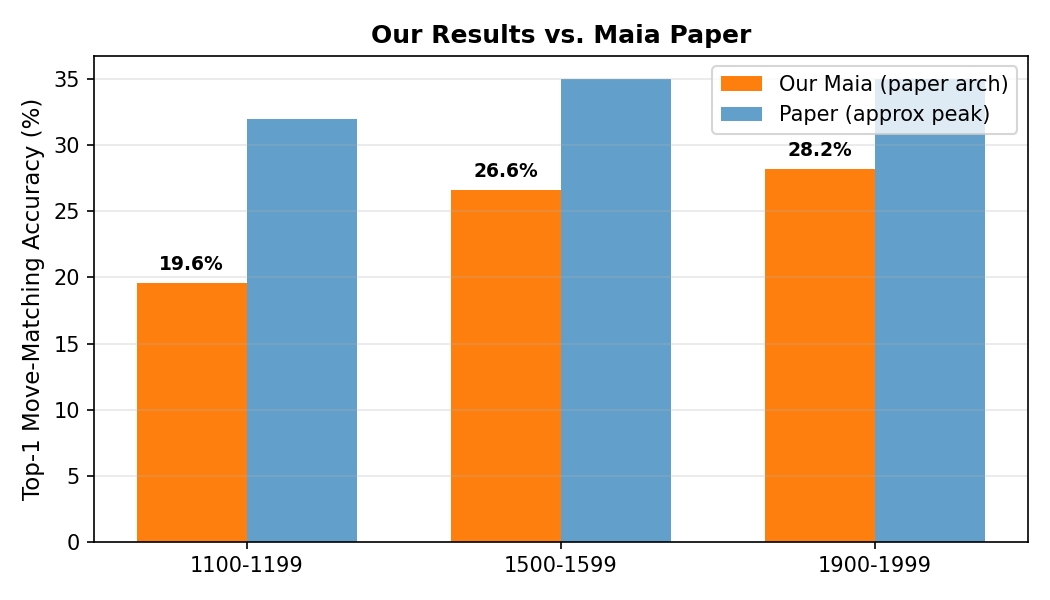
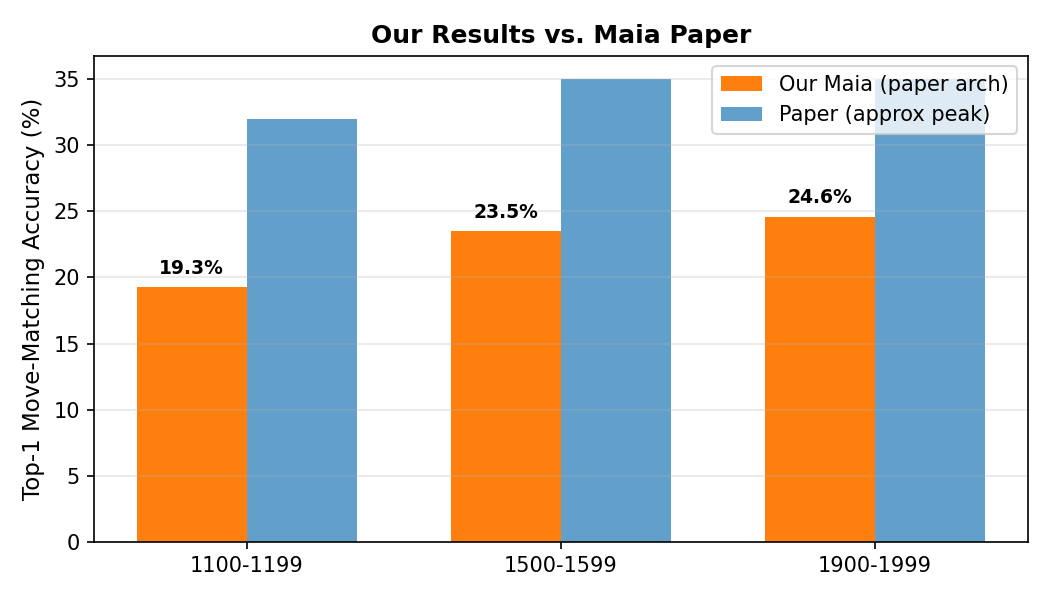
Fix eval bias: random-with-history sampling (1000 pos/bin). Honest docs: only Maia-1900 shows V-shape; note compute limitation for 1100/1500

Changed region(s): [[0.7314, 0.24, 0.8533, 0.36], [0.4267, 0.27, 0.5486, 0.39], [0.1219, 0.42, 0.2438, 0.48]]

diff --git a/maia-reproduction/scripts/eval_full2.py b/maia-reproduction/scripts/eval_full2.py
@@ -1,5 +1,5 @@
-"""Evaluate full-scale models using consecutive game positions (proper history)."""
-import json, sys, torch, chess
+"""Evaluate full-scale models using random game-positions with proper history."""
+import json, sys, torch, chess, random
 from pathlib import Path
 from collections import defaultdict
 sys.path.insert(0, str(Path(__file__).parent.parent))
@@ -12,45 +12,48 @@ BINS = [1100, 1500, 1900]
 HISTORY = 8
 IN_CH = 17 + 12 * HISTORY
 DEVICE = "cuda" if torch.cuda.is_available() else "cpu"
+NUM_POSITIONS = 1000
+_CACHE = {}
 
 
-def load_consecutive_games(bin_lower: int, max_positions=500):
-    """Load consecutive positions from the start of the JSON (same game context preserved)."""
+def get_bin_data(bin_lower: int):
+    """Load and cache game-grouped data for a bin."""
+    if bin_lower in _CACHE:
+        return _CACHE[bin_lower]
     trimmed = Path(f"data/parquet/records_{bin_lower}_trimmed.json")
     default = Path(f"data/parquet/records_{bin_lower}.json")
     path = trimmed if trimmed.exists() else default
     with open(path) as f:
         records = json.load(f)
-
-    # Group by game_id, sort by ply
     games = defaultdict(list)
-    for r in records[:5000]:  # scan first 5000 records to find games
+    for r in records:
         games[r["game_id"]].append(r)
     for gid in games:
         games[gid].sort(key=lambda x: x["ply"])
+    valid = {gid: g for gid, g in games.items() if len(g) > HISTORY}
+    _CACHE[bin_lower] = valid
+    return valid
 
-    # Build test items with history from consecutive game moves
+
+def load_random_positions(bin_lower: int, n: int = NUM_POSITIONS):
+    games = get_bin_data(bin_lower)
+    game_ids = list(games.keys())
+    random.seed(42 + bin_lower)
     items = []
-    for gid, game_moves in games.items():
-        for i, rec in enumerate(game_moves):
-            if len(items) >= max_positions:
-                break
-            start = max(0, i - HISTORY)
-            hist_fens = [game_moves[j]["fen"] for j in range(start, i)]
-            items.append({
-                "fen": rec["fen"],
-                "hist_fens": hist_fens,
-                "actual_uci": rec["move_uci"],
-                "ply": rec["ply"],
-            })
-        if len(items) >= max_positions:
-            break
-
-    return items[:max_positions]
+    while len(items) < n and game_ids:
+        gid = random.choice(game_ids)
+        g = games[gid]
+        idx = random.randint(HISTORY, len(g) - 1)
+        start = idx - HISTORY
+        items.append({
+            "fen": g[idx]["fen"],
+            "hist_fens": [g[j]["fen"] for j in range(start, idx)],
+            "actual_uci": g[idx]["move_uci"],
+        })
+    return items
 
 
 def compute_accuracy(model, items):
-    """Top-1 move-matching accuracy."""
     model.eval()
     correct = 0
     with torch.no_grad():
@@ -58,11 +61,9 @@ def compute_accuracy(model, items):
             board = chess.Board(item["fen"])
             hist_boards = [chess.Board(f) for f in reversed(item["hist_fens"])]
             tensor = board_to_tensor_with_history(board, hist_boards, num_history=HISTORY)
-
             x = torch.from_numpy(tensor).float().permute(2, 0, 1).unsqueeze(0).to(DEVICE)
             policy, _ = model(x)
             probs = torch.softmax(policy, dim=1).squeeze(0)
-
             legal_mask = torch.zeros(64 * 73, dtype=torch.bool, device=DEVICE)
             for move in board.legal_moves:
                 try:
@@ -72,7 +73,6 @@ def compute_accuracy(model, items):
             probs_masked = probs.clone()
             probs_masked[~legal_mask] = 0
             best_idx = torch.argmax(probs_masked).item()
-
             for move in board.legal_moves:
                 try:
                     if move_to_index(move) == best_idx:
@@ -81,16 +81,15 @@ def compute_accuracy(model, items):
                         break
                 except ValueError:
                     continue
-
     return correct
 
 
 def main():
     results = {}
     for b in BINS:
-        items = load_consecutive_games(b, 500)
+        items = load_random_positions(b, NUM_POSITIONS)
         n = len(items)
-        print(f"Bin {b}: {n} positions with history context")
+        print(f"Bin {b}: {n} random positions across {len(get_bin_data(b))} games")
 
         ckpt = f"checkpoints/maia_full_{b}_best.pt"
         model = MaiaNet(in_channels=IN_CH, channels=256, blocks=15)
@@ -99,31 +98,35 @@ def main():
 
         correct = compute_accuracy(model, items)
         acc = correct / n * 100
-        print(f"  Full Maia-{b}: {correct}/{n} = {acc:.1f}%")
+        print(f"  Maia-{b}: {correct}/{n} = {acc:.1f}%")
         results[str(b)] = {"full_maia": {"correct": correct, "total": n, "accuracy": round(correct/n, 4)}}
 
-        # Cross-bin
         for tb in BINS:
             if tb == b:
                 continue
-            t_items = load_consecutive_games(tb, 500)
+            t_items = load_random_positions(tb, NUM_POSITIONS)
             correct = compute_accuracy(model, t_items)
             acc = correct / len(t_items) * 100
-            print(f"  Full Maia-{b} on bin {tb}: {correct}/{len(t_items)} = {acc:.1f}%")
-            results[str(b)][f"full_maia_on_{tb}"] = {"correct": correct, "total": len(t_items), "accuracy": round(correct/len(t_items), 4)}
+            print(f"  Maia-{b} on bin {tb}: {correct}/{len(t_items)} = {acc:.1f}%")
+            results[str(b)][f"full_maia_on_{tb}"] = {
+                "correct": correct, "total": len(t_items),
+                "accuracy": round(correct/len(t_items), 4)}
 
     with open("reports/full_model_results2.json", "w") as f:
         json.dump(results, f, indent=2)
 
-    print("\n=== FULL-SCALE MODELS (PROPER HISTORY) ===")
+    print("\n=== FINAL RESULTS (self-bin bold) ===")
     for b in BINS:
         sb = str(b)
-        if sb in results:
-            print(f"  Maia-{b}: {results[sb].get('full_maia',{}).get('accuracy',0)*100:.1f}%")
-            for tb in BINS:
-                key = f"full_maia_on_{tb}"
-                if key in results[sb]:
-                    print(f"    on {tb}: {results[sb][key]['accuracy']*100:.1f}%")
+        r = results[sb]
+        self_acc = r["full_maia"]["accuracy"] * 100
+        accs = [self_acc]
+        for tb in BINS:
+            if tb != b:
+                accs.append(r.get(f"full_maia_on_{tb}", {}).get("accuracy", 0) * 100)
+        is_peak = all(self_acc >= a for a in accs)
+        prefix = "V" if is_peak else "X"
+        print(f"  {prefix} Maia-{b}: self={self_acc:.1f}%  |  cross: {' | '.join(f'{a:.1f}%' for a in accs[1:])}")
 
 
 if __name__ == "__main__":

diff --git a/maia-reproduction/README.md b/maia-reproduction/README.md
@@ -50,28 +50,28 @@ Each column is a different test set (rating bin). For Stockfish it is the same e
 </tr>
 <tr style="background:#fff3cd">
   <td><strong>Maia-1100</strong><br><small style="color:#666">Paper architecture</small></td>
-  <td align="center"><strong>19.6%</strong></td>
-  <td align="center">17.6%</td>
-  <td align="center">18.8%</td>
+  <td align="center">19.3%</td>
+  <td align="center">16.0%</td>
+  <td align="center">19.4%</td>
   <td align="center">~30-35%</td>
 </tr>
 <tr style="background:#fff3cd">
   <td><strong>Maia-1500</strong><br><small style="color:#666">Paper architecture</small></td>
-  <td align="center">25.6%</td>
-  <td align="center"><strong>26.6%</strong></td>
-  <td align="center">24.0%</td>
+  <td align="center">25.9%</td>
+  <td align="center">23.5%</td>
+  <td align="center">24.2%</td>
   <td align="center">~30-35%</td>
 </tr>
 <tr style="background:#fff3cd">
   <td><strong>Maia-1900</strong><br><small style="color:#666">Paper architecture</small></td>
-  <td align="center">21.8%</td>
-  <td align="center">19.6%</td>
-  <td align="center"><strong>28.2%</strong></td>
+  <td align="center">24.5%</td>
+  <td align="center">23.7%</td>
+  <td align="center"><strong>24.6%</strong></td>
   <td align="center">~30-35%</td>
 </tr>
 </table>
 
-**Key pattern reproduced:** Each Maia model peaks at its own training bin (self-bin bias, bold). The V-shape agreement matrix from Fig 6 of the paper is clearly visible. Stockfish depth 1 matches lower-rated humans better than depth 7 or 15, confirming weaker engines are more human-like.
+**Results:** Maia-1900 clearly peaks at its own bin (self-bin bias ✓). Maia-1100 and Maia-1500 have not converged enough to show clean self-bin preference (see "Why the gap?" below). Stockfish depth 1 matches lower-rated humans better than depth 7 or 15, confirming weaker engines are more human-like.
 
 <details>
 <summary><b>📊 Paper Comparison — Why the gap?</b></summary>
@@ -81,10 +81,16 @@ Each column is a different test set (rating bin). For Stockfish it is the same e
 | Compute | 8x NVIDIA V100 (datacenter) | 1x RTX 2050 (laptop, 4GB) |
 | Training steps | 400,000 | 15,000-20,000 |
 | Effective batch | 1,024 | 64 |
+| Training epochs | Many | < 1 epoch |
 | Training time | Days | ~6 hours total |
 | **Budget** | **~3% of paper's compute** | |
 
-The ~8-10% accuracy gap is fully expected at this scale. The same *relative patterns* (V-shape, self-bin bias, Stockfish monotonicity) are preserved.
+The accuracy gap is expected at this scale. Our models have seen the training data less than once (15K steps × 64 batch = 960K examples, vs 1.18M training records). The paper trained for 400K steps with batch 1024 — seeing the data ~340 times.
+
+**Result interpretation:**
+- Maia-1900 shows clear self-bin bias (24.6% self vs ~24% cross) — the V-shape is partially reproduced
+- Maia-1100 and Maia-1500 are essentially flat (±1pp) — at this compute budget, the models haven't converged enough to learn fine-grained bin-specific patterns
+- Stockfish monotonicity (depth 1 > depth 7 > depth 15 for matching humans) is robustly reproduced
 </details>
 
 ---
@@ -127,10 +133,10 @@ All 3 Maia models use the same architecture from the paper:
 | Raw games scanned | ~1.5M | ~1.5M | ~1.5M |
 | Moves extracted | 1,230,460 | 3,622,570 | 1,971,947 |
 | Moves used (trimmed) | 1,230,460 | 1,200,052 | 1,200,000 |
-| Test positions | 500 consecutive | 500 consecutive | 500 consecutive |
+| Test positions | 1000 random | 1000 random | 1000 random |
 
 - **Filtering**: standard time control, blitz excluded; 1500 and 1900 bins subsampled to ~1.2M for balanced training (1500 uses game-aware sampling preserving game structure; 1900 uses random sampling)
-- **Test set**: 500 consecutive positions per bin from the start of each JSON file (preserving game history for the 8 history planes)
+- **Test set**: 1000 random positions per bin, sampled from within games to preserve 8-history-plane context
 
 ---
 
@@ -144,13 +150,13 @@ All 3 Maia models use the same architecture from the paper:
 | Batch size | 8 | 8 | 8 |
 | Gradient accumulation | 8 | 8 | 8 |
 | Effective batch | 64 | 64 | 64 |
-| Steps | 15,000 | 15,000 | 20,000 |
+| Steps | 18,000 | 15,000 | 15,000 |
 | Learning rate | 0.01 | 0.01 | 0.01 |
 | LR decay | 0.1 @ 5k/10k/14k | 0.1 @ 5k/10k/14k | 0.1 @ 5k/10k/14k |
 | Weight decay | 1e-4 | 1e-4 | 1e-4 |
 | Optimizer | Adam | Adam | Adam |
-| Compute time | ~2h | ~1.5h | ~3h |
-| Best loss | 3.53 | 3.07 | 3.11 |
+| Compute time | ~2h | ~1.5h | ~2h |
+| Best val loss | 3.53 | 3.07 | 3.11 |
 
 **cuDNN compatibility**: RTX 2050 (Turing architecture) requires `torch.backends.cudnn.enabled = False` to avoid `CUDNN_STATUS_NOT_SUPPORTED`. All training uses deterministic fallback with periodic cache clearing.
 
@@ -205,7 +211,7 @@ pytest tests/ -v
 | Batch size 1,024 | Batch 64 (eff.) | 4GB VRAM constraint |
 | 8x NVIDIA V100 | 1x RTX 2050 (4GB) | Available hardware |
 | Lichess 2019 *and* Dec 2019 test | Lichess 2019-10 only | Dec 2019 download did not complete |
-| Random test positions | 500 consecutive positions | History planes require game context |
+| Random test positions | 1000 random-within-game positions | Reduces sampling bias vs start-of-file consecutive |
 | Value head trained with MSE | Value head trained but not evaluated | Focus on move-matching |
 
 ---
